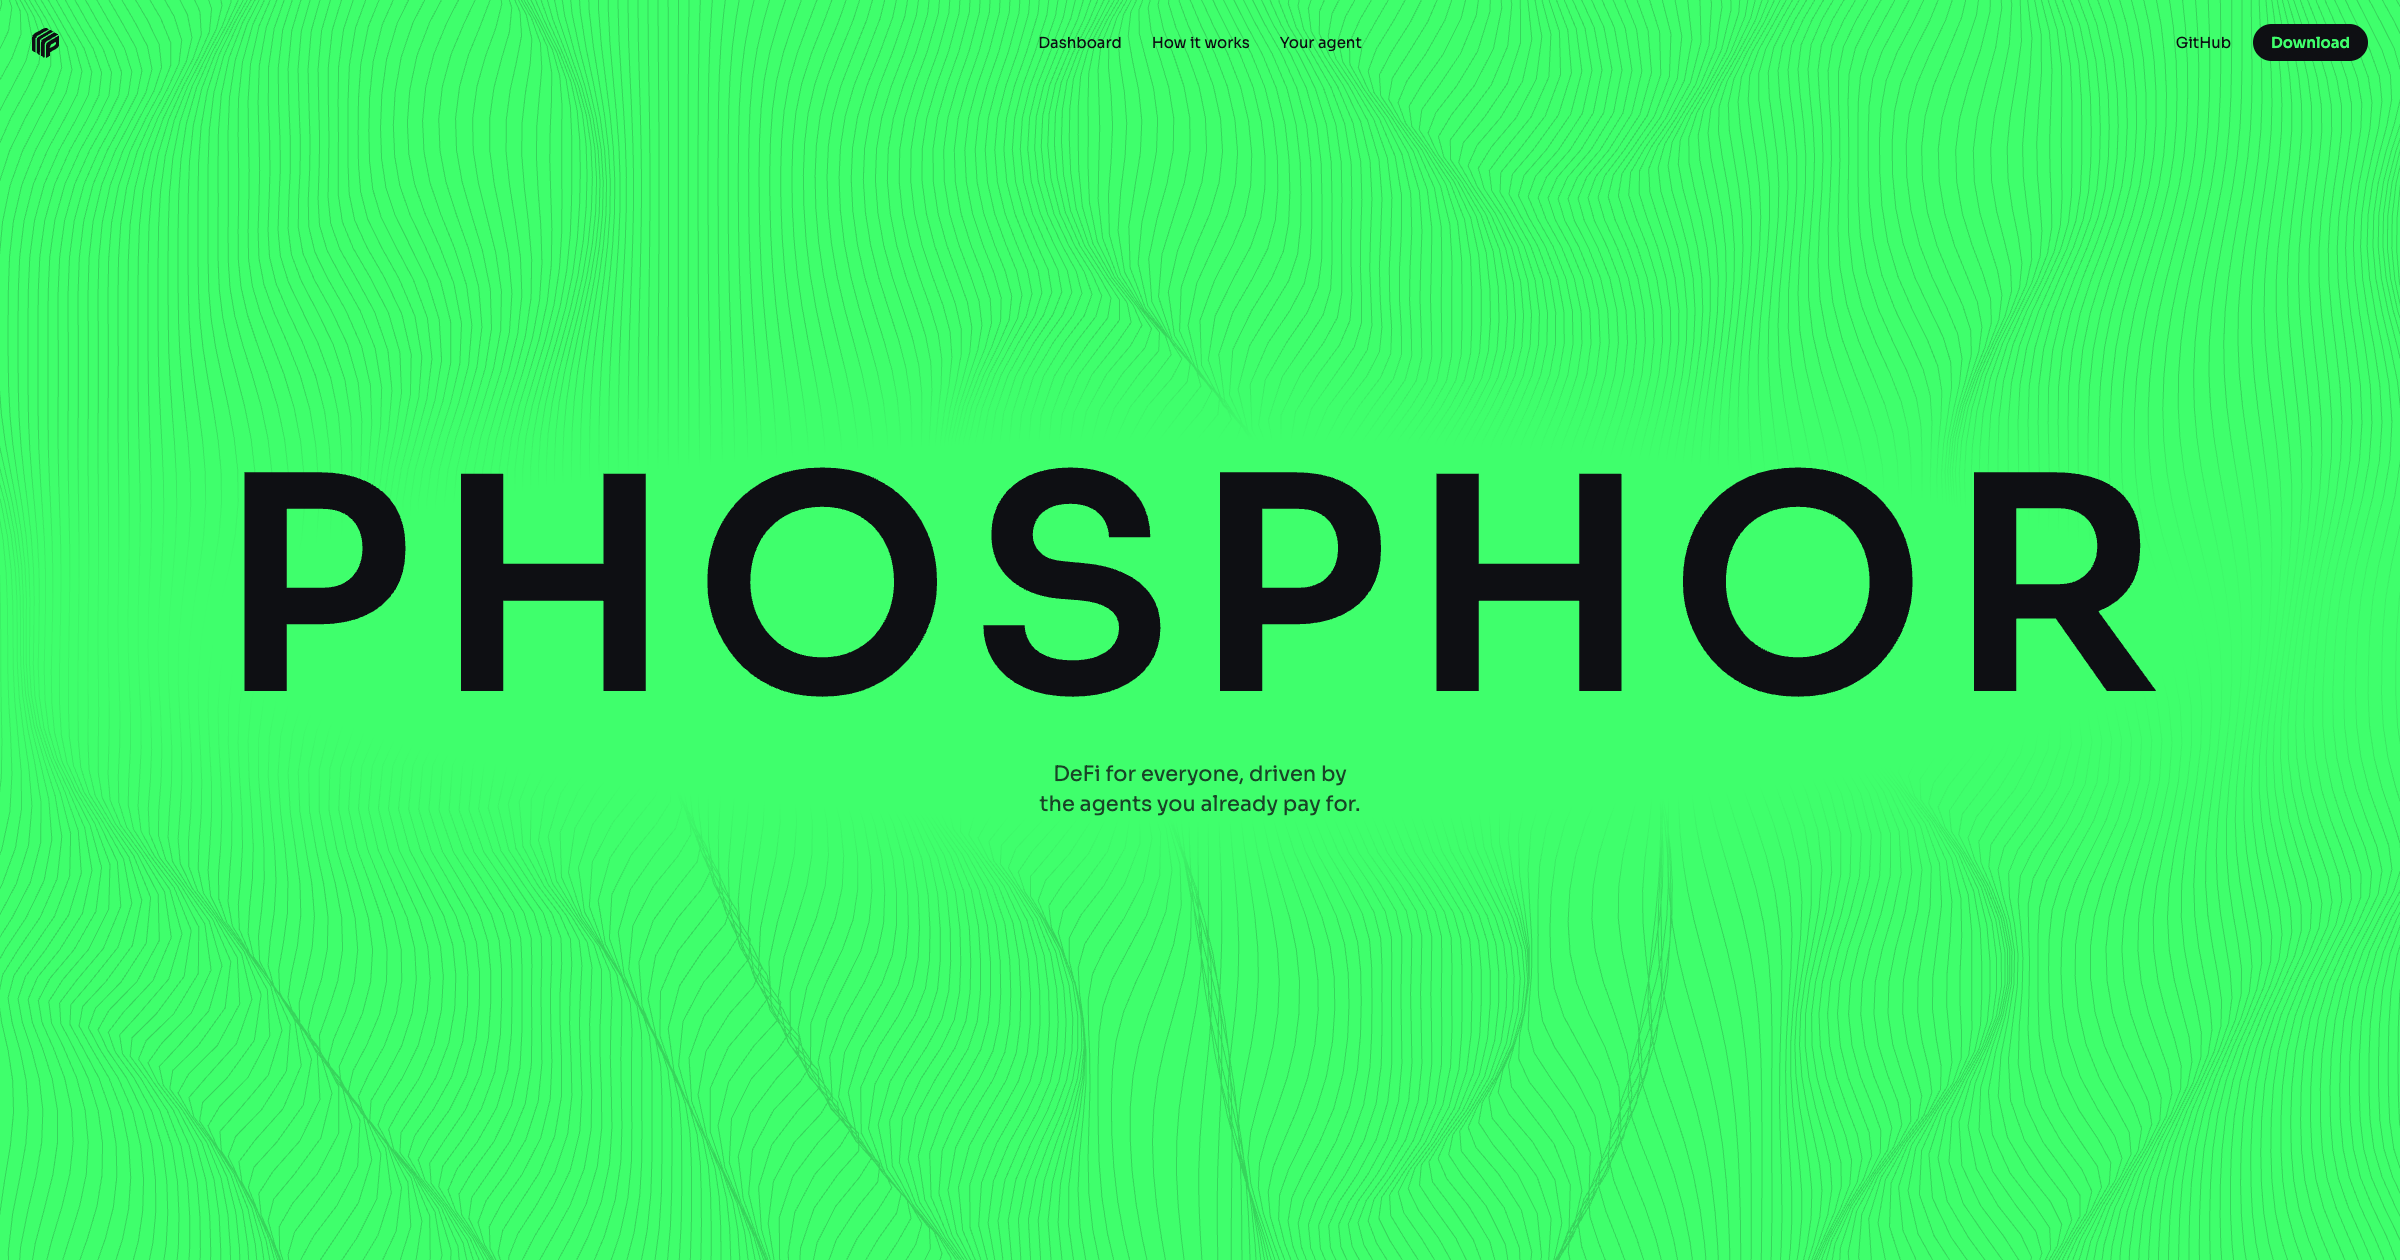
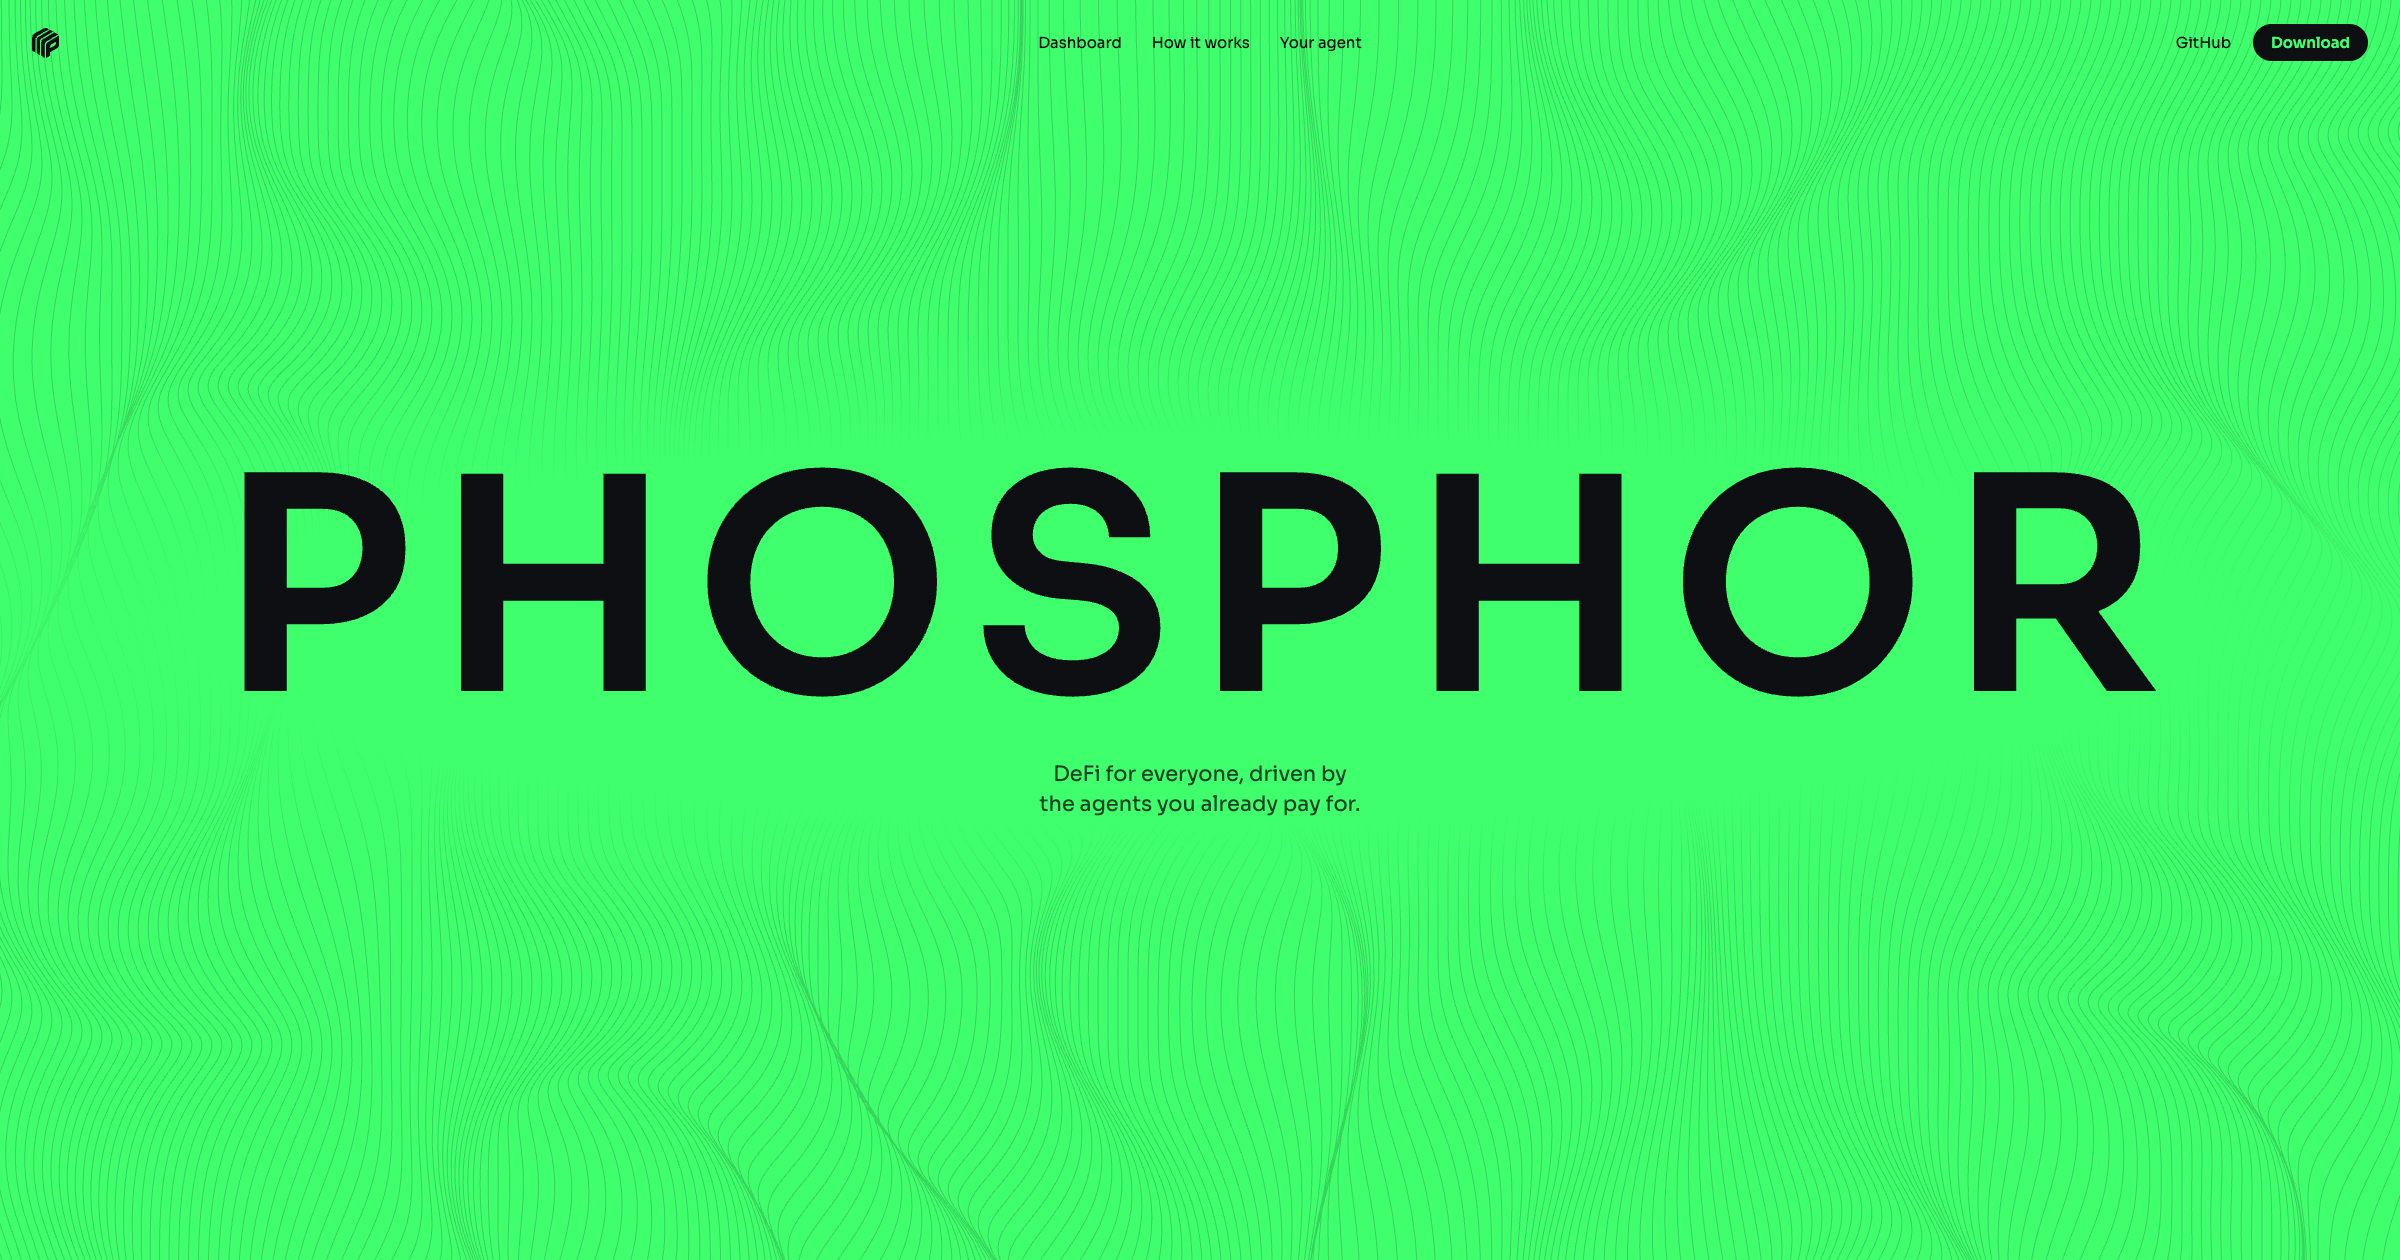
Field: smooth curves through the points, denser sampling
The lines were polylines with a joint every 32px, so every bend read as
two sticks. They are now Catmull-Rom curves drawn as cubic Beziers, with
a point every 24px. og.png re-rendered.

diff --git a/index.html b/index.html
@@ -575,7 +575,7 @@
     const hero = document.querySelector('.hero');
     const lockup = document.querySelector('.lockup');
     const ctx = canvas.getContext('2d');
-    const cfg = { xGap: 10, yGap: 32, ampX: 32, ampY: 16, speedX: 0.0125, speedY: 0.005, friction: 0.925, tension: 0.005, reach: 100 };
+    const cfg = { xGap: 10, yGap: 24, ampX: 32, ampY: 16, speedX: 0.0125, speedY: 0.005, friction: 0.925, tension: 0.005, reach: 100 };
 
     const perm = new Uint8Array(512);
     {
@@ -613,7 +613,7 @@
         const x0 = (W - cfg.xGap * nx) / 2, y0 = (H - cfg.yGap * ny) / 2;
         for (let i = 0; i <= nx; i++) {
           const pts = [];
-          for (let j = 0; j <= ny; j++) pts.push({ x: x0 + cfg.xGap * i, y: y0 + cfg.yGap * j, wx: 0, wy: 0, cx: 0, cy: 0, vx: 0, vy: 0 });
+          for (let j = 0; j <= ny; j++) pts.push({ x: x0 + cfg.xGap * i, y: y0 + cfg.yGap * j, wx: 0, wy: 0, cx: 0, cy: 0, vx: 0, vy: 0, px: 0, py: 0 });
           lines.push(pts);
         }
       }
@@ -648,14 +648,21 @@
       ctx.clearRect(0, 0, W, H);
       ctx.strokeStyle = 'rgba(14, 15, 19, 0.18)';
       ctx.lineWidth = 1;
+      ctx.lineJoin = 'round';
       ctx.beginPath();
       for (const pts of lines) {
         const n = pts.length - 1;
         for (let j = 0; j <= n; j++) {
           // the two ends take no push, so every line stays pinned past the edges
           const p = pts[j], end = j === 0 || j === n;
-          const x = p.x + p.wx + (end ? 0 : p.cx), y = p.y + p.wy + (end ? 0 : p.cy);
-          if (j === 0) ctx.moveTo(x, y); else ctx.lineTo(x, y);
+          p.px = p.x + p.wx + (end ? 0 : p.cx); p.py = p.y + p.wy + (end ? 0 : p.cy);
+        }
+        // one smooth curve through the points (Catmull-Rom as cubic Beziers), so
+        // a bend is a bend and never a joint between two straight sticks
+        ctx.moveTo(pts[0].px, pts[0].py);
+        for (let j = 0; j < n; j++) {
+          const a = pts[Math.max(0, j - 1)], b = pts[j], c = pts[j + 1], d = pts[Math.min(n, j + 2)];
+          ctx.bezierCurveTo(b.px + (c.px - a.px) / 6, b.py + (c.py - a.py) / 6, c.px - (d.px - b.px) / 6, c.py - (d.py - b.py) / 6, c.px, c.py);
         }
       }
       ctx.stroke();
